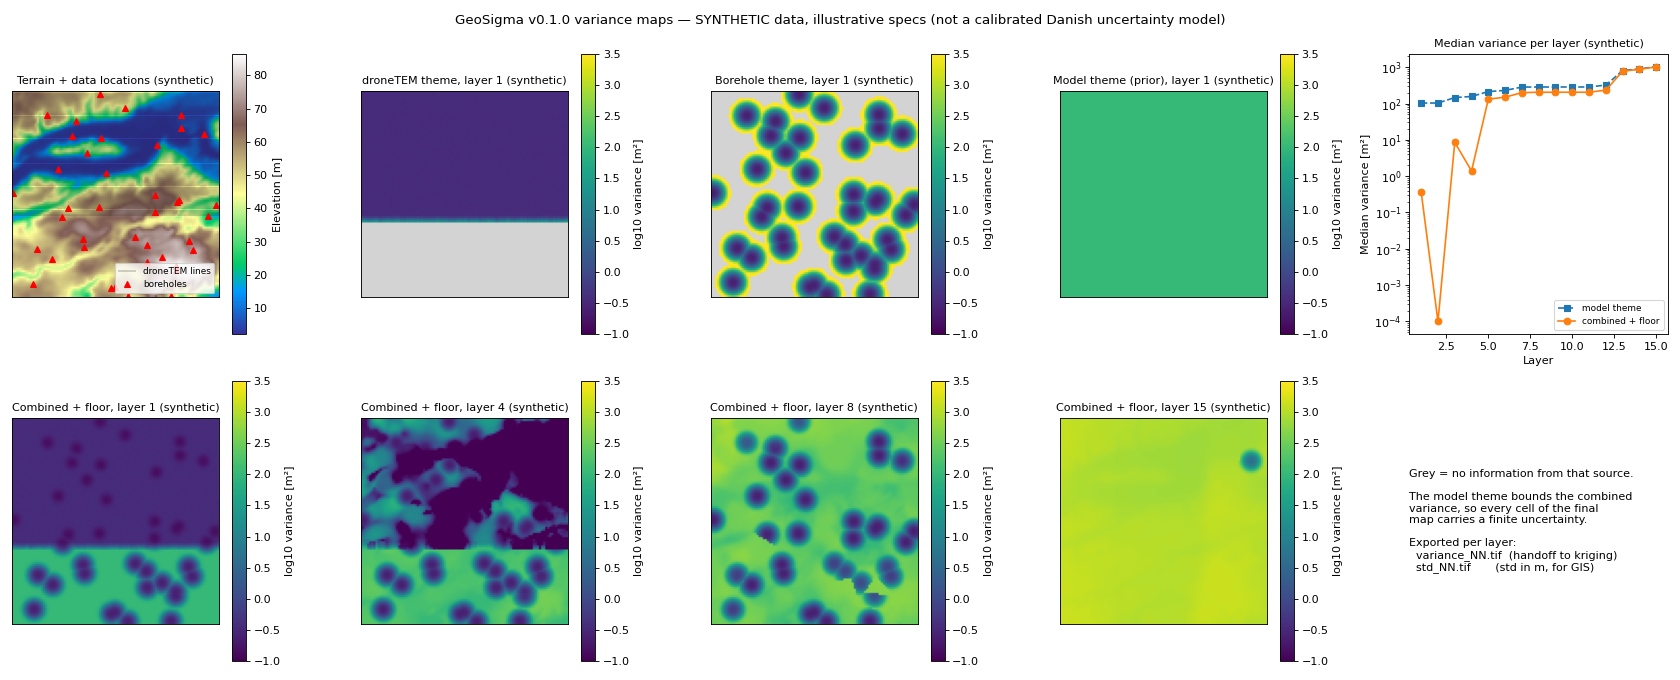
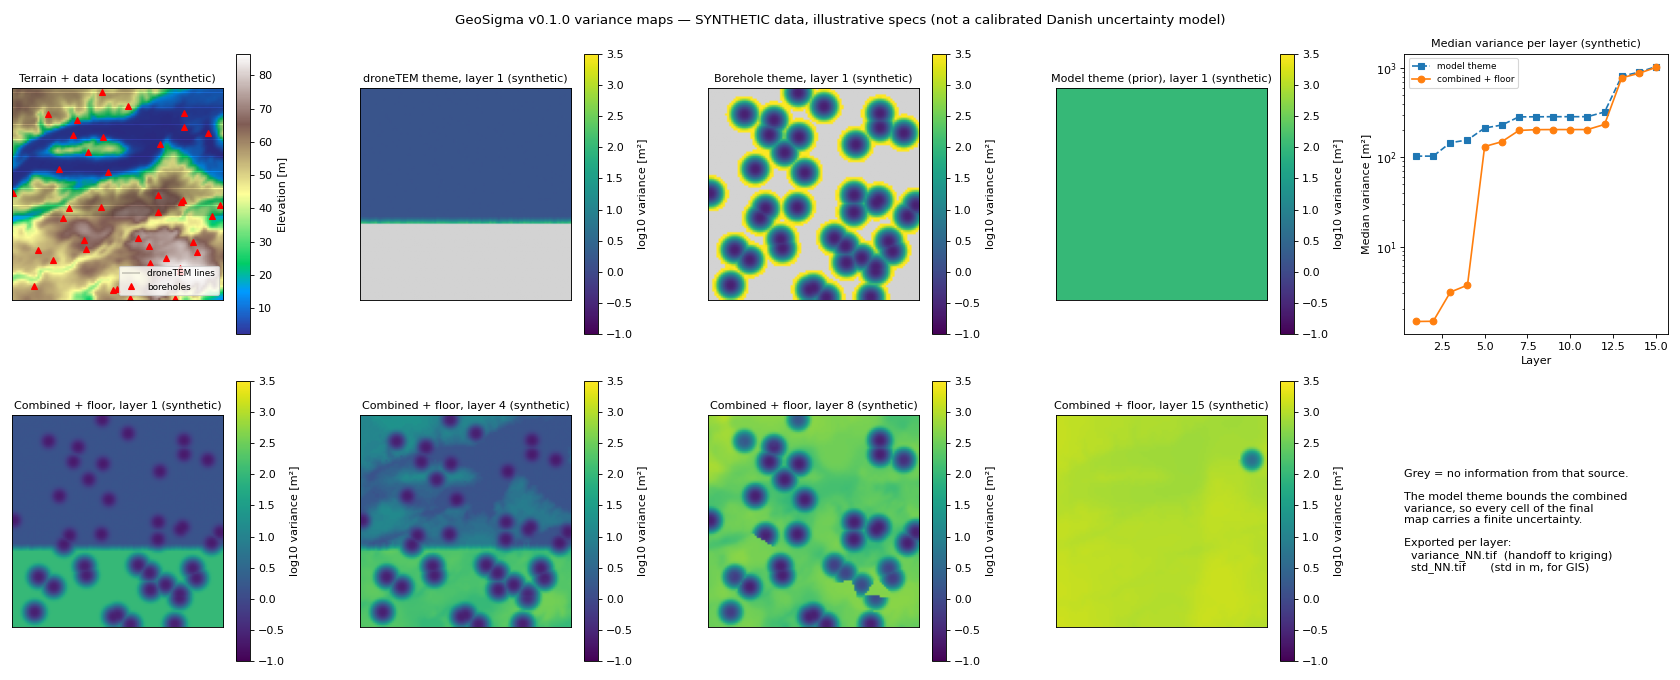
Demo: droneTEM thick is the thickness of an inversion-model layer
The synthetic generator took thick as the distance between two
hydrostratigraphic surfaces, which is zero where a layer pinches out
(18 981 of 23 760 soundings in layer 2), so var0 was 0 and those cells
had infinite certainty. For the TEM family thick is the thickness of
the inversion-model layer that holds the interpreted boundary. The demo
now takes it from a synthetic 30-layer inversion model with layer
thicknesses growing with depth (2 m at the top, x1.1 per layer): always
> 0, 2.9 m at 10 m depth, 13.5 m at 120 m.

The demo runs without warnings. The median final std in the droneTEM
area goes from 0.60/0.01/1.16/0.45 m to 1.20/1.20/1.32/1.45 m in layers
1-4; the figure is regenerated.

diff --git a/examples/demo_variance_map.py b/examples/demo_variance_map.py
@@ -40,8 +40,10 @@ for illustration. The model theme is passed to
 
 .. important::
    **The data are synthetic and the specs are illustrative.** The data points
-   are randomly generated; their depths and thicknesses are read off the sample
-   model surfaces. Neither ``dronetem.spec.yaml`` nor the inline borehole spec
+   are randomly generated; their depths are read off the sample model
+   surfaces. droneTEM's ``thick`` is the thickness of the layer of a synthetic
+   inversion model that holds each boundary (see ``inversion_layer_thickness``).
+   Neither ``dronetem.spec.yaml`` nor the inline borehole spec
    is a calibrated (Danish or otherwise) uncertainty model, and neither is the
    single-class model theme; they exist to show the workflow. For the reasoning
    behind real specs, see ``docs/bring_your_own_data.md``.
@@ -103,10 +105,32 @@ grid_x, grid_y, _, _ = grid_coordinates_from_esri_meta(meta)
 terrain = np.flipud(top).astype(float)
 bottom_stack = np.stack([np.flipud(b) for b in bottoms], axis=-1).astype(float)
 
-# Per-cell boundary depth below terrain, and layer thickness, per layer.
+# Per-cell boundary depth below terrain, per layer.
 depth_grid = terrain[:, :, None] - bottom_stack
-upper = np.concatenate([terrain[:, :, None], bottom_stack[:, :, :-1]], axis=-1)
-thick_grid = upper - bottom_stack
+
+# A synthetic 1D inversion model shared by every droneTEM sounding: 30 layers
+# whose thickness grows geometrically with depth (2 m at the top, x1.1 per
+# layer, ~330 m in total), as in a smooth TEM inversion. For the TEM family,
+# ``thick__L*`` is the thickness of the INVERSION layer that holds the
+# interpreted boundary, not the thickness of a hydrostratigraphic layer, so it
+# is always > 0 and grows with depth.
+INVERSION_INTERFACES = np.concatenate(
+    [[0.0], np.cumsum(2.0 * 1.1 ** np.arange(30))]
+)
+
+
+def inversion_layer_thickness(depth):
+    """Thickness of the inversion layer that holds ``depth`` (m below terrain).
+
+    Below the deepest interface the boundary lies in the half-space, which has
+    no thickness: NaN, as in the ThemeData format.
+    """
+    depth = np.asarray(depth, dtype=float)
+    thickness = np.diff(INVERSION_INTERFACES)
+    k = np.searchsorted(INVERSION_INTERFACES, np.maximum(depth, 0.0), side="right") - 1
+    inside = k < thickness.size
+    return np.where(inside, thickness[np.minimum(k, thickness.size - 1)], np.nan)
+
 
 print(f"Region: {cfg.name}")
 print(
@@ -139,7 +163,7 @@ drone = ThemeData(
     ys=drone_y,
     attributes={
         "depth": sample_at(drone_x, drone_y, depth_grid),
-        "thick": sample_at(drone_x, drone_y, thick_grid),
+        "thick": inversion_layer_thickness(sample_at(drone_x, drone_y, depth_grid)),
         # Depth of investigation per sounding (m below terrain).
         "doi": rng.uniform(60.0, 120.0, drone_x.size),
     },
